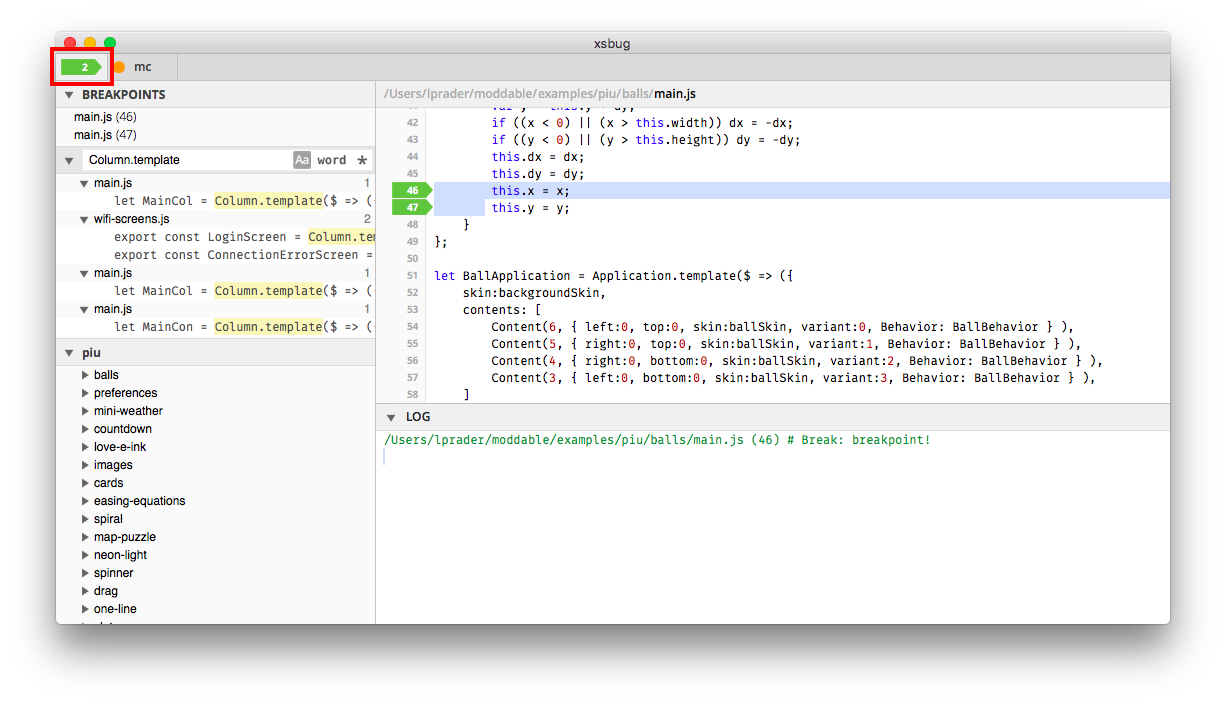
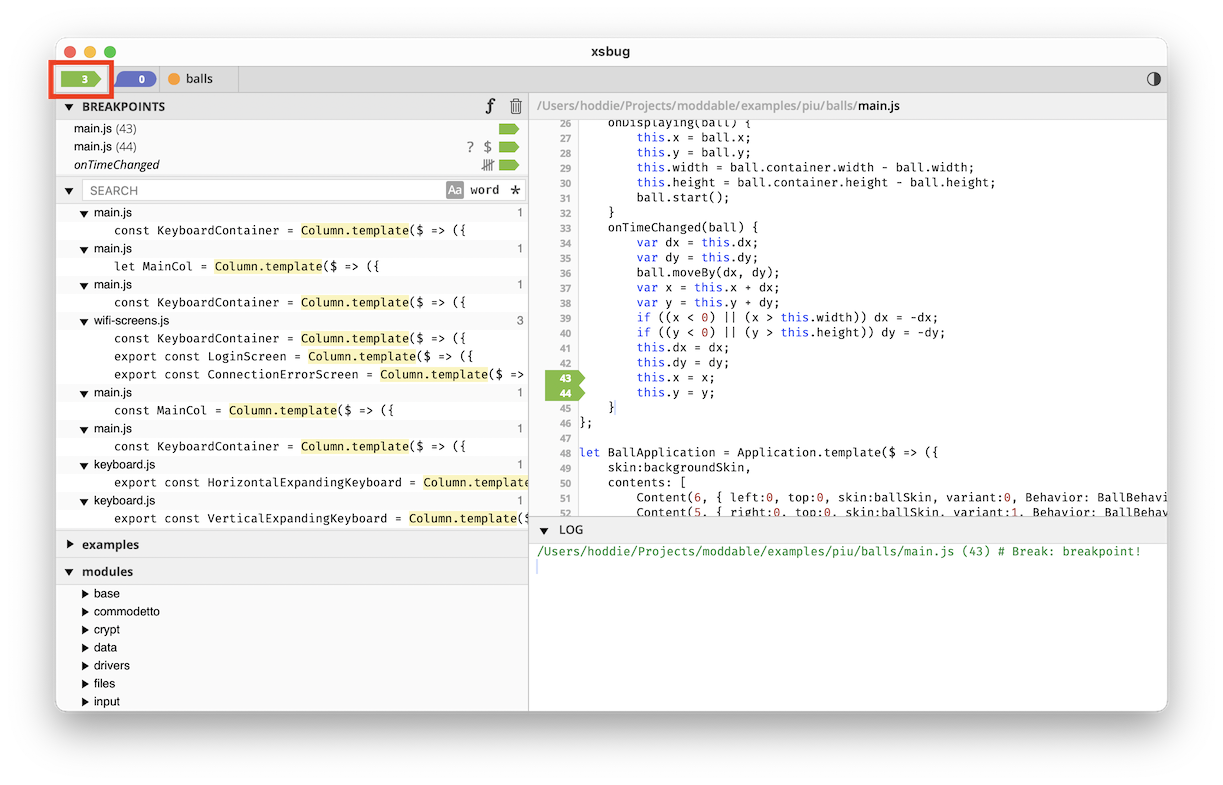
xsbug doc update

Changed region(s): [[0.0311, 0.0312, 0.9632, 0.9062]]

diff --git a/documentation/xs/xsbug.md b/documentation/xs/xsbug.md
@@ -1,9 +1,11 @@
 # xsbug
-Updated June 16, 2023
+Updated October 1, 2023
 
-The `xsbug` JavaScript source level debugger is a full featured debugger that supports debugging modules and applications for [XS platforms](../xs/XS%20Platforms.md). The `xsbug` debugger is automatically launched when deploying debug builds and connects to devices via USB or over Wi-Fi. Similar to other debuggers, `xsbug` supports setting breakpoints, browsing source code, the call stack and variables. The `xsbug` debugger additionally provides real-time instrumentation to track memory usage and profile application and resource consumption.
+The `xsbug` JavaScript source level debugger is a full featured debugger that supports debugging modules and applications for [XS platforms](../xs/XS%20Platforms.md). The `xsbug` debugger is automatically launched when deploying debug builds and connects to devices via USB or over Wi-Fi. Similar to other debuggers, `xsbug` supports setting breakpoints and browsing source code, the call stack, local variables, and global variables. The `xsbug` debugger additionally provides real-time instrumentation to track memory usage and profile application and resource consumption. There is also an integrated [performance profiler](#profiler) for identifying performance hot-spots.
 
 A video demonstration of xsbug is available [here](https://youtu.be/vqu8gDV7AOo).
+
+> Note: For developers who prefer to use a console log for debugging, xsbug-log maybe used instead of xsbug. See [below](#xsbug-log) for details.
 
 ## Machine Tabs
 
@@ -18,14 +20,16 @@ Figure 1 shows the machine tab view. At the top of the window, there are tabs fo
 The left pane displays:
 
 * The **Kill** ![](../assets/xsbug/kill.png), **Break** ![](../assets/xsbug/break.png), **Run** ![](../assets/xsbug/run.png), **Step** ![](../assets/xsbug/step.png), **Step In**  ![](../assets/xsbug/step-in.png) and **Step Out**  ![](../assets/xsbug/step-out.png) buttons. Corresponding menu items and shortcuts are also available in the **Debug** menu to control the virtual machine.
-* The **Instrumentation** panel. Use this to track memory usage and profile application and resource consumption in real-time.
-* The **Calls** stack panel. Select a row in this panel to see where the call happened.
-* The **Locals**, **Modules**, and **Globals** panels. Use these to inspect values of local and global variables and see which modules are loaded. Dictionaries and arrays have the ![](../assets/xsbug/arrow.png) icon next to their name. You can inspect the values of a dictionary's properties or an array's items by tapping the name to expand the row.
+* The **Profile** panel. Use this to activate the [performance profiler](#profiler) to locate performance hotspots in scripts.
+* The **Instrumentation** panel. Use this to track memory usage and monitor resource consumption in real-time.
+* The **Calls** stack panel. Select a row in this panel to see the source code line where the call was made and to inspect the local variables of that stack frame.
+* The **Locals**, **Modules**, and **Globals** panels. Use these to inspect values of local and global variables and see which modules are loaded. Dictionaries and arrays have the ![](../assets/xsbug/arrow.png) icon next to their name. You can inspect the values of an object's properties or an array's items by tapping the name to expand the row.
 
 The right panes display:
 
 * The selected file.
 * The console. Each virtual machine has its own console.
+* A field to enter JavaScript expressions to be evaluated. This field is labeled "EVAL" and is only available when stopped at a breakpoint. See [Interactive Console](repl) for more information.
 
 ## Breakpoints Tab
 
@@ -43,7 +47,8 @@ To remove files and folders from **xsbug**, use the **Close** ![](../assets/xsbu
 
 The left pane displays:
 
-* The **Breakpoints** themselves. Tap a row in this panel to see where the breakpoint is. In the header of this panel, there is a **Trash** ![](../assets/xsbug/trash.png) button to clear all breakpoints.
+* The **Breakpoints** themselves. Tap a row in this panel to see where the breakpoint is. Each breakpoint row shows icons corresponding to features used by the breakpoint - a question mark for Conditional breakpoints, a tally for Hit Count breakpoints, and a "$" prompt for Trace Expressions. In the header of this panel, there are two icons. The first is an "f" button for setting Function Name breakpoints. The second is a **Trash** ![](../assets/xsbug/trash.png) button to clear all breakpoints. 
+
 * The **Search** panel. Use this to recursively search all the files in all the folders added to **xsbug**.
 * Zero or more files and folders panels. Tap folder rows to browse, select a file row to display the file.
 
@@ -67,6 +72,9 @@ In the header of the pane:
 * The **Find** ![](../assets/xsbug/find.png) button extends the header with a field to search the file.
 * The **Close** ![](../assets/xsbug/close.png) button closes the file pane.
 
+To edit a breakpoint, tap the breakpoint's arrow in the File Pane to display the editor.
+
+![](../assets/xsbug/breakpoint-editor.png)
 
 ## Preferences Pane
 
@@ -80,9 +88,27 @@ The **Break** preferences panel toggles the **Break On Start** and **Break On Ex
 
 The **Instruments** preferences panel allows you to select whether you want the instrumentation panel to automatically show while all virtual machines are running and hide when a virtual machine breaks.
 
-The **Network** preferences panel displays the interfaces **xsbug** is listening on, and provides an edit field to change the port number **xsbug** is listening with. The default port number is **5002**. Changing the port number kills all connected virtual machines.
+The **Network** preferences panel displays the interfaces **xsbug** is listening on, and provides an edit field to change the port number **xsbug** is listening with. The default port number is **5002**. Changing the port number kills any connected virtual machines.
 
+<a id="repl"></a>
+## Interactive Console (EVAL)
+
+The interactive console is shown at the bottom of the File Pane when stopped at a breakpoint. Eval expressions may be used in many different ways:
+
+- Display a value: `this`, `this.prototype`, `x`, `this.#ref`
+- Perform a calculation: `x + y`, `this.bounds.width * this.bounds.height`
+- Call functions: `this.update()`, `Math.round(x)`
+- Set values: `this.x = 12`, `globalThis.keep = this`, `this.#ref = null`
+
+JavaScript expressions entered into the Eval field are evaluated in the context of the current breakpoint. The evaluation context is also defined by the currently selected stack frame in the Calls panel, which changes the local variables that are visible and the value of `this`.
+
+If an expression uses a feature of JavaScript that has been optimized out (using the strip feature of XS to minimize the size of the engine), the console displays `"dead strip"`.
+
+Expressions may access private fields of objects with some restrictions. First, access to private fields is based on the scope. If the current scope cannot access a private field, then the Eval expression cannot either. In addition, only the private fields that are referenced by the current function may be accessed by an expressions.
+
+<a id="profiler"></a>
 ## Performance Profiler
+
 xsbug has an integrated performance profiler that is invaluable for identifying performance hotspots in JavaScript code. The profiler works on JavaScript running on embedded device targets and the simulator.
 
 These resources will help you get started:
@@ -92,6 +118,7 @@ These resources will help you get started:
 - [Technical details](./XS%20Profiler.md) on the XS performance profiler including implementation notes and how the displayed time values are calculated
 
 
+<a id="colorize"></a>
 ## Colorizing console/log with trace
 
 You can colorize your output in the console/log pane when using `trace` on a per-line basis by using a tag at the start a line.  Available tags are:
@@ -115,3 +142,27 @@ trace('starts with the tag\n');
 ```
 
 ![](../assets/xsbug/colorize.png)
+
+## Unit Test Runner
+
+xsbug may be used to run tests262 and unit tests, such as [those included](../../tests) in the Moddable SDK,  See the [Testing the Moddable SDK](../tools/testing.md) document for instructions on using xsbug for testing.
+
+
+<a id="xsbug-log"></a>
+## xsbug-log
+
+xsbug-log is an alternative to xsbug. Instead of a graphical user interface, it is a simple console log of the project's output. xsbug-log useful when running on devices without a display (so-called "headless" devices) and for developers who prefer debugging with only console output.
+
+xsbug-log is implemented in Node.js. To use it, you must first install the dependencies:
+
+```
+cd $MODDABLE/tools/xsbug-log
+npm install
+```
+
+To use xsbug-log with `mcconfig` use `-dl` (for debug log) in place of`-d` on the command line.
+
+```
+mcconfig -dl -m -p esp32/moddable_two
+```
+
